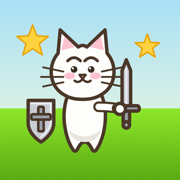
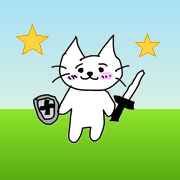
Add files via upload

diff --git a/sw.js b/sw.js
@@ -3,7 +3,7 @@
    - オンライン時は毎回サーバーから取得し、取れたものをキャッシュに保存（＝更新が確実に反映される）。
    - オフライン時（弓矢…ではなくネットが無いとき）はキャッシュから返す。
    ★ ファイルを更新して古い画面が出る時は、下の VERSION の数字を上げると全キャッシュを作り直す。 */
-const VERSION = 'v17';
+const VERSION = 'v18';
 const CACHE = 'neko-' + VERSION;
 
 // 最初に必ずキャッシュしておくもの（本体＋アイコン＋ショップが<img>で読むSVG）。

diff --git a/game.js b/game.js
@@ -1363,7 +1363,7 @@ function showOverlay(show,kind){
 document.getElementById('startBtn').onclick=startGame;
 
 // ---------- 更新（iPad対策）：ボタンでキャッシュを消して最新に入れ替え ----------
-const APP_VERSION='v17';
+const APP_VERSION='v18';
 async function forceUpdate(){
   const b=document.getElementById('updateBtn'); if(b){ b.textContent='こうしん中…'; }
   try{ const rs=await navigator.serviceWorker.getRegistrations(); await Promise.all(rs.map(r=>r.unregister())); }catch(e){}

diff --git a/index.html b/index.html
@@ -149,8 +149,8 @@
     addEventListener('load', () => navigator.serviceWorker.register('sw.js').catch(() => {}));
   }
 </script>
-<script src="assets.js?v=17"></script>
-<script src="audio.js?v=17"></script>
-<script src="game.js?v=17"></script>
+<script src="assets.js?v=18"></script>
+<script src="audio.js?v=18"></script>
+<script src="game.js?v=18"></script>
 </body>
 </html>
